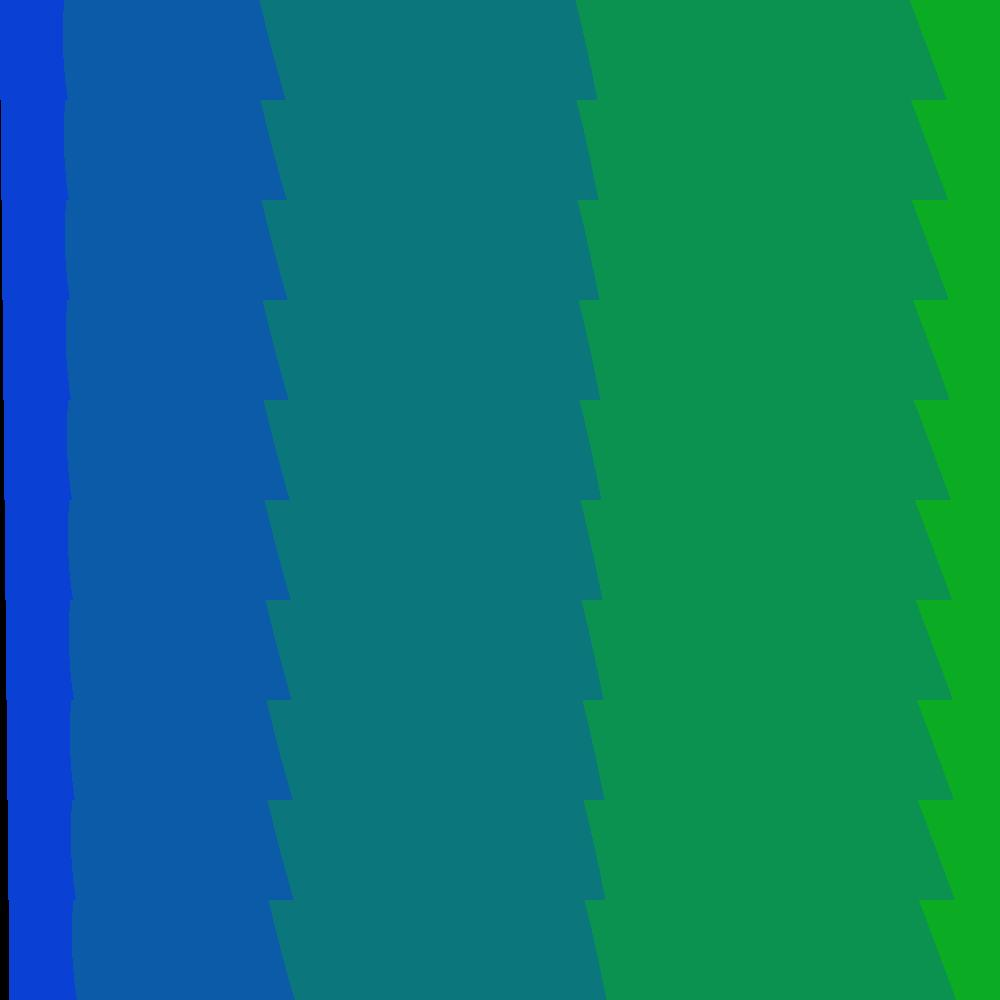
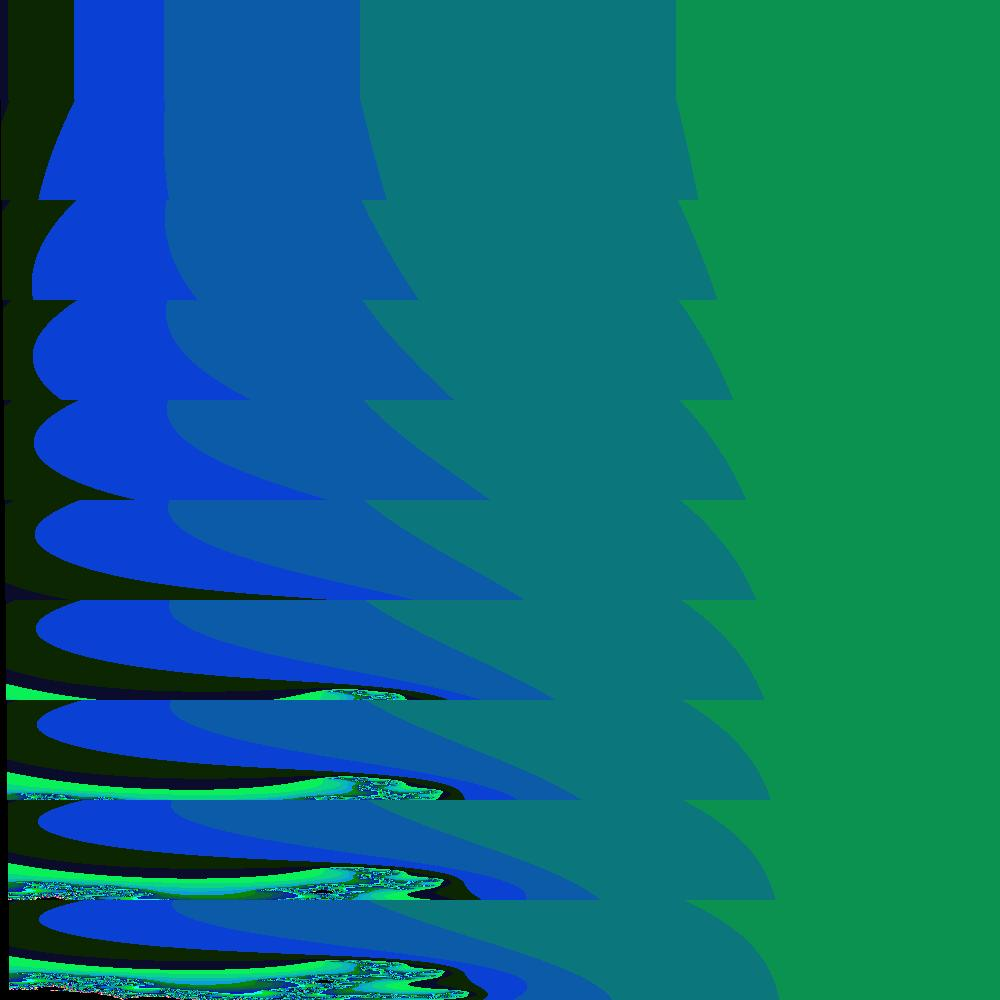
wip

diff --git a/src/main/java/org/example/FractalDesigner.java b/src/main/java/org/example/FractalDesigner.java
@@ -17,26 +17,12 @@ public class FractalDesigner {
 
     public void designFractal () {
         if (fractal.getName().equals("mandel")) {
-
             int linesByChunk = 100;
-
-//            FractalTask.setFractal(fractal);
-//            FractalTask.setLinesByChunk(linesByChunk);
-
-            for (int i = 0; i < fractal.getVerticalSide()/linesByChunk; i++) {
-                futures.add(threadPool.submit(new ImageFractionTask(i, linesByChunk, fractal)));
-                /* try{
-                    Thread.sleep(20); // waiting 15ms to prevent having bugged stripes when proco is burning
-                } catch (InterruptedException e) {
-                    e.printStackTrace();
-                }
-                FractalTask task = new FractalTask(i);
-                threadPool.execute(task);*/
-            }
-
+            createFractions(linesByChunk);
+            threadPool.shutdown();
             mergeFractions();
 
-//            threadPool.shutdown();
+
 //            try {
 //                threadPool.awaitTermination(Long.MAX_VALUE, TimeUnit.MILLISECONDS);
 //            } catch (InterruptedException e) {
@@ -46,6 +32,12 @@ public class FractalDesigner {
         else {
             System.out.println("draw julia");
             fractal.draw(0,0,0, fractal.getImage()); //make it work ok mais crado
+        }
+    }
+
+    private void createFractions(int linesByChunk) {
+        for (int i = 0; i < fractal.getVerticalSide()/linesByChunk; i++) {
+            futures.add(threadPool.submit(new ImageFractionTask(i, linesByChunk, fractal)));
         }
     }
 

diff --git a/src/main/java/org/example/Mandelbrot.java b/src/main/java/org/example/Mandelbrot.java
@@ -40,8 +40,8 @@ public class Mandelbrot extends Fractal {
 
     public void draw(int x, int y, int fractionId, BufferedImage image) {
         zx = zy = 0;
-        cX = (x + getPosX()*fractionId) / getZoom();
-        cY = (y + getPosY()*fractionId) / getZoom();
+        cX = (x + getPosX()) / getZoom();
+        cY = (y*fractionId + getPosY()) / getZoom();
         int iter = MAX_ITER;
         while (zx * zx + zy * zy < 4 && iter > 0) {
             tmp = zx * zx - zy * zy + cX;
